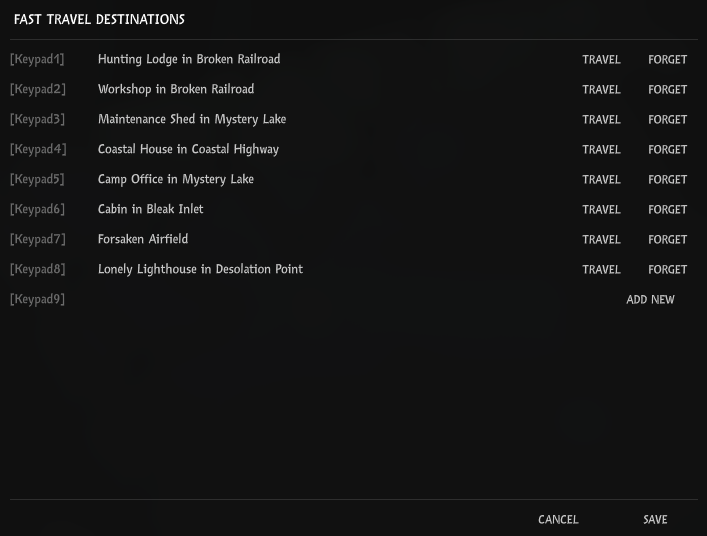
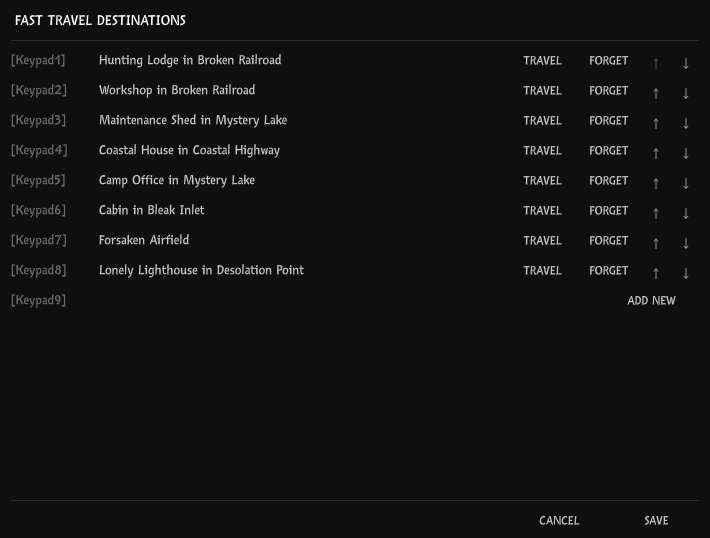
add support for reordering destinations

diff --git a/src/FastTravel/Framework/DestinationManagerPanel.cs b/src/FastTravel/Framework/DestinationManagerPanel.cs
@@ -275,7 +275,7 @@ internal class DestinationManagerPanel : MonoBehaviour
             KeyCode? slotKey = this.GetSlotKey(i);
 
             int saveIndex = i;
-            this.DrawDestinationRow(destination, slotKey, overwriteWithCurrentLocation: () => this.Destinations.SaveFavorite(saveIndex, this.CurrentLocation));
+            this.DrawDestinationRow(destination, slotKey, canMoveUp: i > 0, canMoveDown: i < ModConstants.MaxFavorites - 1, overwriteWithCurrentLocation: () => this.Destinations.SaveFavorite(saveIndex, this.CurrentLocation));
         }
 
         // end scroll area
@@ -308,9 +308,11 @@ internal class DestinationManagerPanel : MonoBehaviour
     /// <summary>Draw a destination slot row.</summary>
     /// <param name="destination">The destination to draw, or <c>null</c> for an empty slot.</param>
     /// <param name="slotKey">The keybind to fast travel to this destination.</param>
+    /// <param name="canMoveUp">Whether the destination can be moved up in the list.</param>
+    /// <param name="canMoveDown">Whether the destination can be moved down in the list.</param>
     /// <param name="overwriteWithCurrentLocation">Save the current location to this slot, if supported.</param>
     [HideFromIl2Cpp]
-    private void DrawDestinationRow(Destination? destination, KeyCode? slotKey, Action overwriteWithCurrentLocation)
+    private void DrawDestinationRow(Destination? destination, KeyCode? slotKey, bool canMoveUp, bool canMoveDown, Action overwriteWithCurrentLocation)
     {
         // start row
         GUILayout.BeginHorizontal(GUILayout.Height(26));
@@ -336,6 +338,17 @@ internal class DestinationManagerPanel : MonoBehaviour
             // draw 'forget' button
             if (GUILayout.Button("FORGET", this.StyleButton!, GUILayout.Width(60)))
                 this.InteractivelyDelete(destination);
+
+            // draw move-up arrow
+            GUI.enabled = canMoveUp;
+            if (GUILayout.Button("↑", this.StyleButton!, GUILayout.Width(26)))
+                this.Destinations.MoveDestination(destination, -1);
+
+            // draw move-down arrow
+            GUI.enabled = canMoveDown;
+            if (GUILayout.Button("↓", this.StyleButton!, GUILayout.Width(26)))
+                this.Destinations.MoveDestination(destination, 1);
+            GUI.enabled = true;
         }
         else
         {

diff --git a/src/FastTravel/Framework/NormalizedDestinations.cs b/src/FastTravel/Framework/NormalizedDestinations.cs
@@ -54,6 +54,39 @@ internal class NormalizedDestinations
         this.SavedSceneNames = null;
     }
 
+    /// <summary>Move a destination in the list.</summary>
+    /// <param name="destination">The destination to move.</param>
+    /// <param name="direction">The direction in which to shift the destination (-1 to move up, or 1 to move down).</param>
+    public bool MoveDestination(Destination destination, int direction)
+    {
+        if (direction is not (-1 or 1))
+            throw new InvalidOperationException($"Invalid offset direction '{direction}', must be -1 (up) or 1 (down).");
+
+        // move favorite
+        foreach ((int index, Destination match) in this.Favorites)
+        {
+            if (!object.ReferenceEquals(destination, match))
+                continue;
+
+            // special case: can't move past top or bottom
+            if ((index is 0 && direction is -1) || (index is ModConstants.MaxFavorites - 1 && direction is 1))
+                return false;
+
+            // else swap into place
+            int newIndex = index + direction;
+            Destination? swapWith = this.Favorites.GetValueOrDefault(newIndex);
+            this.Favorites[newIndex] = destination;
+            if (swapWith != null)
+                this.Favorites[index] = swapWith;
+            else
+                this.Favorites.Remove(index);
+            return true;
+        }
+
+        // not found
+        return false;
+    }
+
     /// <summary>Remove a destination.</summary>
     /// <param name="destination">The destination to remove.</param>
     public bool Remove(Destination destination)

diff --git a/src/FastTravel/docs/release-notes.md b/src/FastTravel/docs/release-notes.md
@@ -3,6 +3,7 @@
 # Release notes
 ## Upcoming release
 * Added [pause menu UI](README.md#use) to manage fast travel destinations.
+* Added support for reordering destinations.
 * Fixed wrong region name shown on-screen after fast traveling across regions.
 * Fixed destination list showing redundant region-in-region label for outdoor destinations.
 

diff --git a/src/FastTravel/docs/README.md b/src/FastTravel/docs/README.md
@@ -40,6 +40,7 @@ On the pause screen, click the 'Fast Travel' option to show the in-game UI:
 
 This UI lets you...
 - Add and forget fast travel destinations.
+- Reorder destinations by clicking the arrow buttons.
 - Travel to any destination by clicking "Travel".
 
 The destinations can also be [managed using keybinds](#using-keybinds).
